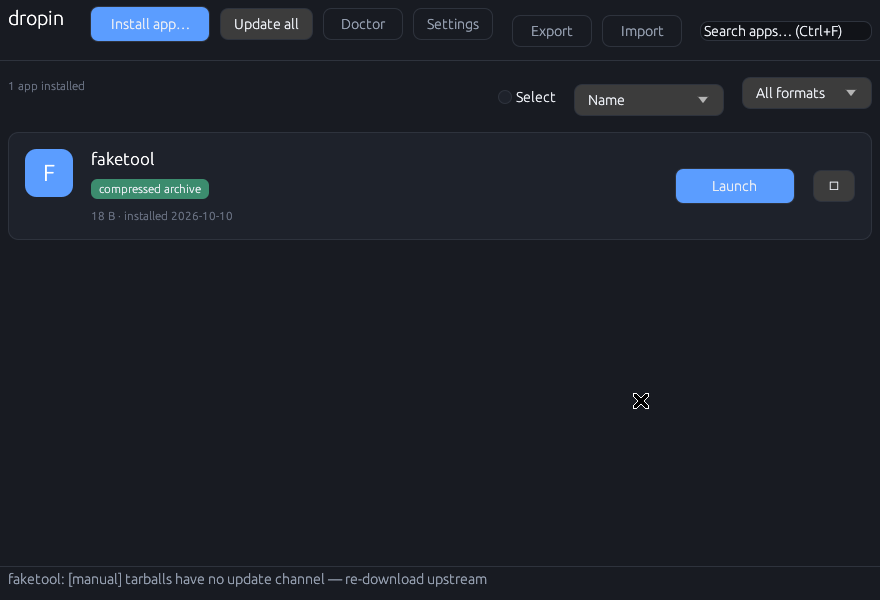
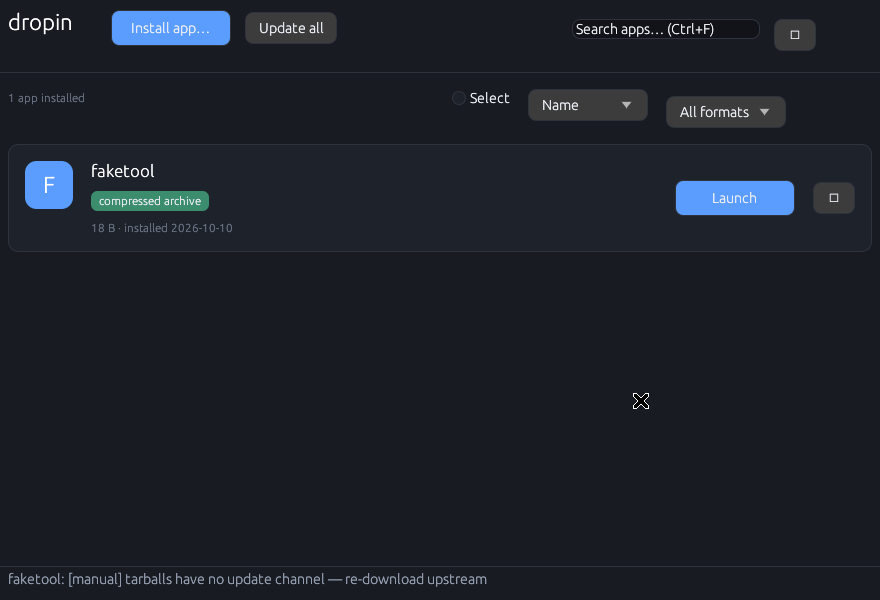
Redesign manager header and filter bar
The toolbar was a crowded wall of 7 buttons with the brand jammed
against them. Now: brand with breathing room, Install and Update as
the primary actions, search prominent on the right, and Doctor /
Settings / Export / Import consolidated into a tools menu.

The filter row had the same right-alignment overlap risk; rebuilt
with explicit spacing so the count and controls never collide.

Also refreshed the README manager screenshot to match.

diff --git a/crates/dropin-gui/src/manager.rs b/crates/dropin-gui/src/manager.rs
@@ -508,10 +508,12 @@ impl eframe::App for ManagerApp {
 
         // ---- toolbar ----
         egui::TopBottomPanel::top("toolbar").show(ctx, |ui| {
-            ui.add_space(4.0);
+            ui.add_space(8.0);
             ui.horizontal(|ui| {
-                ui.label(egui::RichText::new("dropin").size(20.0).strong());
-                ui.add_space(16.0);
+                // Brand, with room to breathe.
+                ui.label(egui::RichText::new("dropin").size(22.0).strong());
+                ui.add_space(28.0);
+                // Primary actions.
                 if style::primary_button_enabled(ui, !busy, "Install app…").clicked() && !busy {
                     if let Some(paths) = rfd::FileDialog::new()
                         .set_title("Choose files to install")
@@ -522,6 +524,7 @@ impl eframe::App for ManagerApp {
                         }
                     }
                 }
+                ui.add_space(4.0);
                 if ui.button("Update all").clicked() && !busy {
                     self.run_op("Updating apps", || {
                         let msg = match install::update(None, true) {
@@ -534,52 +537,14 @@ impl eframe::App for ManagerApp {
                         }
                     });
                 }
-                if style::ghost_button(ui, "Doctor").clicked() && !busy {
-                    self.doctor_issues = health::check();
-                    self.doctor_open = true;
-                }
-                if style::ghost_button(ui, "Settings").clicked() {
-                    self.settings_open = true;
-                }
-                // Export/import and search, right-aligned. Reserve their width
-                // first so they never overlap the left buttons.
-                let right_width = 360.0;
+                // Right side: search and tools menu.
+                // Reserve width so the two sides never collide.
+                let right_width = 300.0;
                 let avail = ui.available_width();
                 if avail > right_width {
                     ui.add_space(avail - right_width);
                 }
                 ui.horizontal(|ui| {
-                    if style::ghost_button(ui, "Export").clicked() && !busy {
-                        if let Some(path) = rfd::FileDialog::new()
-                            .set_title("Export app list")
-                            .set_file_name("dropin-apps.json")
-                            .save_file()
-                        {
-                            if let Ok(apps) = install::list() {
-                                if let Ok(json) = serde_json::to_string_pretty(&apps) {
-                                    if std::fs::write(&path, json).is_ok() {
-                                        self.status = format!(
-                                            "Exported {} apps to {}.",
-                                            apps.len(),
-                                            path.display()
-                                        );
-                                    }
-                                }
-                            }
-                        }
-                    }
-                    if style::ghost_button(ui, "Import").clicked() && !busy {
-                        if let Some(path) = rfd::FileDialog::new()
-                            .set_title("Import app list")
-                            .pick_file()
-                        {
-                            self.status = format!(
-                                "Import from {}: reinstall apps from their original files.",
-                                path.display()
-                            );
-                        }
-                    }
-                    ui.add_space(8.0);
                     let resp = ui.add(
                         egui::TextEdit::singleline(&mut self.search)
                             .hint_text("Search apps… (Ctrl+F)")
@@ -589,8 +554,55 @@ impl eframe::App for ManagerApp {
                     if resp.changed() {
                         self.selected.clear();
                     }
+                    ui.add_space(4.0);
+                    ui.menu_button("⋯", |ui| {
+                        ui.set_min_width(180.0);
+                        if ui.button("Doctor").clicked() && !busy {
+                            self.doctor_issues = health::check();
+                            self.doctor_open = true;
+                            ui.close();
+                        }
+                        if ui.button("Settings").clicked() {
+                            self.settings_open = true;
+                            ui.close();
+                        }
+                        ui.separator();
+                        if ui.button("Export app list").clicked() && !busy {
+                            if let Some(path) = rfd::FileDialog::new()
+                                .set_title("Export app list")
+                                .set_file_name("dropin-apps.json")
+                                .save_file()
+                            {
+                                if let Ok(apps) = install::list() {
+                                    if let Ok(json) = serde_json::to_string_pretty(&apps) {
+                                        if std::fs::write(&path, json).is_ok() {
+                                            self.status = format!(
+                                                "Exported {} apps to {}.",
+                                                apps.len(),
+                                                path.display()
+                                            );
+                                        }
+                                    }
+                                }
+                            }
+                            ui.close();
+                        }
+                        if ui.button("Import app list").clicked() && !busy {
+                            if let Some(path) = rfd::FileDialog::new()
+                                .set_title("Import app list")
+                                .pick_file()
+                            {
+                                self.status = format!(
+                                    "Import from {}: reinstall apps from their original files.",
+                                    path.display()
+                                );
+                            }
+                            ui.close();
+                        }
+                    });
                 });
             });
+            ui.add_space(8.0);
             // Bulk actions bar, only when something is selected.
             if !self.selected.is_empty() {
                 ui.add_space(4.0);
@@ -752,7 +764,29 @@ impl eframe::App for ManagerApp {
                     .small()
                     .color(style::color::TEXT_FAINT),
                 );
-                ui.with_layout(egui::Layout::right_to_left(egui::Align::Center), |ui| {
+                // Filters on the right. Reserve width so they never
+                // overlap the count on narrow windows.
+                let right_width = 420.0;
+                let avail = ui.available_width();
+                if avail > right_width {
+                    ui.add_space(avail - right_width);
+                }
+                ui.horizontal(|ui| {
+                    // Select mode toggle.
+                    if ui.checkbox(&mut self.select_mode, "Select").changed() && !self.select_mode {
+                        self.selected.clear();
+                    }
+                    ui.add_space(8.0);
+                    // Sort.
+                    egui::ComboBox::from_id_salt("sort_by")
+                        .selected_text(self.sort_by.label())
+                        .width(120.0)
+                        .show_ui(ui, |ui| {
+                            for opt in [SortBy::Name, SortBy::Size, SortBy::Recent] {
+                                ui.selectable_value(&mut self.sort_by, opt, opt.label());
+                            }
+                        });
+                    ui.add_space(8.0);
                     // Format filter.
                     let mut formats: Vec<String> = self
                         .apps
@@ -764,7 +798,7 @@ impl eframe::App for ManagerApp {
                     formats.sort();
                     egui::ComboBox::from_id_salt("format_filter")
                         .selected_text(self.format_filter.as_deref().unwrap_or("All formats"))
-                        .width(130.0)
+                        .width(120.0)
                         .show_ui(ui, |ui| {
                             if ui
                                 .selectable_value(&mut self.format_filter, None, "All formats")
@@ -781,8 +815,7 @@ impl eframe::App for ManagerApp {
                                 }
                             }
                         });
-                    ui.add_space(8.0);
-                    // Category filter.
+                    // Category filter (only when useful).
                     let mut categories: Vec<String> = self
                         .apps
                         .iter()
@@ -792,11 +825,12 @@ impl eframe::App for ManagerApp {
                         .collect();
                     categories.sort();
                     if categories.len() > 1 {
+                        ui.add_space(8.0);
                         egui::ComboBox::from_id_salt("category_filter")
                             .selected_text(
                                 self.category_filter.as_deref().unwrap_or("All categories"),
                             )
-                            .width(130.0)
+                            .width(120.0)
                             .show_ui(ui, |ui| {
                                 if ui
                                     .selectable_value(
@@ -821,21 +855,6 @@ impl eframe::App for ManagerApp {
                                     }
                                 }
                             });
-                        ui.add_space(8.0);
-                    }
-                    // Sort.
-                    egui::ComboBox::from_id_salt("sort_by")
-                        .selected_text(self.sort_by.label())
-                        .width(150.0)
-                        .show_ui(ui, |ui| {
-                            for opt in [SortBy::Name, SortBy::Size, SortBy::Recent] {
-                                ui.selectable_value(&mut self.sort_by, opt, opt.label());
-                            }
-                        });
-                    // Select mode toggle.
-                    ui.add_space(8.0);
-                    if ui.checkbox(&mut self.select_mode, "Select").changed() && !self.select_mode {
-                        self.selected.clear();
                     }
                 });
             });
